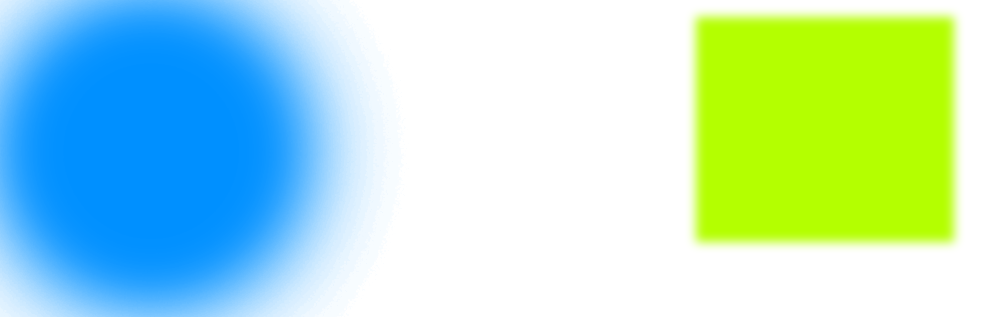
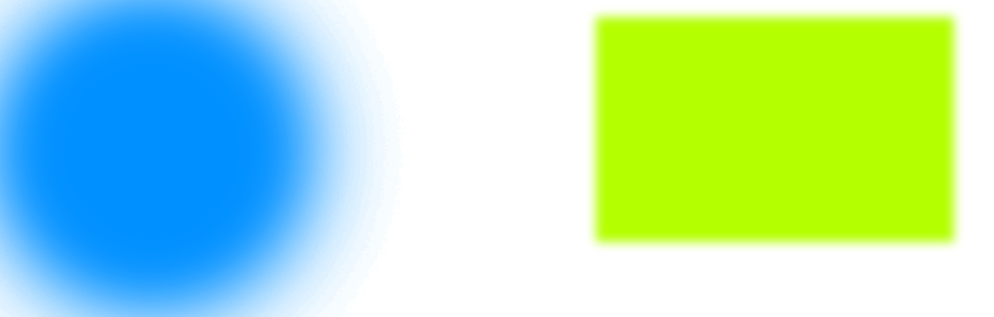
some changes.

Changed region(s): [[0.5926, 0.0284, 0.7173, 0.795]]

diff --git a/cookieclicker/src/ch/jmnetwork/cookieclicker/ui/CCUserInterface.java b/cookieclicker/src/ch/jmnetwork/cookieclicker/ui/CCUserInterface.java
@@ -27,6 +27,7 @@ import ch.jmnetwork.cookieclicker.CookieManager;
 import ch.jmnetwork.cookieclicker.helper.Helper;
 import ch.jmnetwork.cookieclicker.helper.HelperClicker;
 import ch.jmnetwork.cookieclicker.lib.Reference;
+import ch.jmnetwork.cookieclicker.util.NumberHelper;
 import ch.jmnetwork.cookieclicker.util.SaveLoadHandler;
 
 public class CCUserInterface
@@ -36,6 +37,7 @@ public class CCUserInterface
     // ======================================//
     
     private boolean run = false;
+    private NumberHelper nh = new NumberHelper();
     
     private static CookieManager cookiemanager;
     private static SaveLoadHandler slHandler;
@@ -137,7 +139,7 @@ public class CCUserInterface
         jframe.setLocationRelativeTo(null);
         jframe.setResizable(false);
         jframe.setIconImage(cookie);
-        if (new File("MainBackground.png").exists())
+        if (new File("BackgroundNew.png").exists())
         {
             try
             {
@@ -225,7 +227,7 @@ public class CCUserInterface
         
         pointerBuyButton.setText("POINTERS_HERE");
         pointerBuyButton.setFont(Font.getFont(FONT));
-        pointerBuyButton.setBounds(700, 20, 250, 20);
+        pointerBuyButton.setBounds(600, 20, 350, 20);
         pointerBuyButton.setEnabled(false);
         pointerBuyButton.setToolTipText(Helper.helpers[0].productivity + " Cookies / s");
         pointerBuyButton.addActionListener(new ActionListener()
@@ -242,7 +244,7 @@ public class CCUserInterface
         
         grandmaBuyButton.setText("GRANDMAS_HERE");
         grandmaBuyButton.setFont(Font.getFont(FONT));
-        grandmaBuyButton.setBounds(700, 42, 250, 20);
+        grandmaBuyButton.setBounds(600, 42, 350, 20);
         grandmaBuyButton.setEnabled(false);
         grandmaBuyButton.setToolTipText(Helper.helpers[1].productivity + " Cookies / s");
         grandmaBuyButton.addActionListener(new ActionListener()
@@ -259,7 +261,7 @@ public class CCUserInterface
         
         farmBuyButton.setText("FARMS_HERE");
         farmBuyButton.setFont(Font.getFont(FONT));
-        farmBuyButton.setBounds(700, 64, 250, 20);
+        farmBuyButton.setBounds(600, 64, 350, 20);
         farmBuyButton.setEnabled(false);
         farmBuyButton.setToolTipText(Helper.helpers[2].productivity + " Cookies / s");
         farmBuyButton.addActionListener(new ActionListener()
@@ -276,7 +278,7 @@ public class CCUserInterface
         
         factoryBuyButton.setText("FACTORYS_HERE");
         factoryBuyButton.setFont(Font.getFont(FONT));
-        factoryBuyButton.setBounds(700, 86, 250, 20);
+        factoryBuyButton.setBounds(600, 86, 350, 20);
         factoryBuyButton.setEnabled(false);
         factoryBuyButton.setToolTipText(Helper.helpers[3].productivity + " Cookies / s");
         factoryBuyButton.addActionListener(new ActionListener()
@@ -293,7 +295,7 @@ public class CCUserInterface
         
         mineBuyButton.setText("MINES_HERE");
         mineBuyButton.setFont(Font.getFont(FONT));
-        mineBuyButton.setBounds(700, 108, 250, 20);
+        mineBuyButton.setBounds(600, 108, 350, 20);
         mineBuyButton.setEnabled(false);
         mineBuyButton.setToolTipText(Helper.helpers[4].productivity + " Cookies / s");
         mineBuyButton.addActionListener(new ActionListener()
@@ -310,7 +312,7 @@ public class CCUserInterface
         
         shipmentBuyButton.setText("SHIPMENTS_HERE");
         shipmentBuyButton.setFont(Font.getFont(FONT));
-        shipmentBuyButton.setBounds(700, 130, 250, 20);
+        shipmentBuyButton.setBounds(600, 130, 350, 20);
         shipmentBuyButton.setEnabled(false);
         shipmentBuyButton.setToolTipText(Helper.helpers[5].productivity + " Cookies / s");
         shipmentBuyButton.addActionListener(new ActionListener()
@@ -327,7 +329,7 @@ public class CCUserInterface
         
         alchemyLabBuyButton.setText("ALCHEMYLABS_HERE");
         alchemyLabBuyButton.setFont(Font.getFont(FONT));
-        alchemyLabBuyButton.setBounds(700, 152, 250, 20);
+        alchemyLabBuyButton.setBounds(600, 152, 350, 20);
         alchemyLabBuyButton.setEnabled(false);
         alchemyLabBuyButton.setToolTipText(Helper.helpers[6].productivity + " Cookies / s");
         alchemyLabBuyButton.addActionListener(new ActionListener()
@@ -344,7 +346,7 @@ public class CCUserInterface
         
         portalBuyButton.setText("PORTALS_HERE");
         portalBuyButton.setFont(Font.getFont(FONT));
-        portalBuyButton.setBounds(700, 174, 250, 20);
+        portalBuyButton.setBounds(600, 174, 350, 20);
         portalBuyButton.setEnabled(false);
         portalBuyButton.setToolTipText(Helper.helpers[7].productivity + " Cookies / s");
         portalBuyButton.addActionListener(new ActionListener()
@@ -361,7 +363,7 @@ public class CCUserInterface
         
         timeMachineBuyButton.setText("TIMEMACHINES_HERE");
         timeMachineBuyButton.setFont(Font.getFont(FONT));
-        timeMachineBuyButton.setBounds(700, 196, 250, 20);
+        timeMachineBuyButton.setBounds(600, 196, 350, 20);
         timeMachineBuyButton.setEnabled(false);
         timeMachineBuyButton.setToolTipText(Helper.helpers[8].productivity + " Cookies / s");
         timeMachineBuyButton.addActionListener(new ActionListener()
@@ -378,9 +380,9 @@ public class CCUserInterface
         
         condenserBuyButton.setText("CONDENSER");
         condenserBuyButton.setFont(Font.getFont(FONT));
-        condenserBuyButton.setBounds(700, 218, 250, 20);
+        condenserBuyButton.setBounds(600, 218, 350, 20);
         condenserBuyButton.setEnabled(false);
-        condenserBuyButton.setToolTipText(Helper.helpers[8].productivity + " Cookies / s");
+        condenserBuyButton.setToolTipText(Helper.helpers[9].productivity + " Cookies / s");
         condenserBuyButton.addActionListener(new ActionListener()
         {
             @Override
@@ -434,116 +436,54 @@ public class CCUserInterface
             // SET BUTTON / LABEL TEXTS
             // ======================================//
             
-            currentCookiesLabel.setText("Current Cookies: " + cookiemanager.getCurrentCookies());
+            currentCookiesLabel.setText("Current Cookies: " + nh.addApostropheToNumber(cookiemanager.getCurrentCookies()));
             cookieRateLabel.setText("Current Cookie Rate: " + onlyOneAfterComma(Helper.getCookieRate()));
-            cookiesHandmade.setText("Handmade cookies: " + cookiemanager.getHandmadeCookies());
+            cookiesHandmade.setText("Handmade Cookies: " + nh.addApostropheToNumber(cookiemanager.getHandmadeCookies()));
             cookiesHandmadePerSec.setText("Handmade Cookies / s: " + CookieClickerMain.handmadePerSec);
-            pointerBuyButton.setText(Helper.owned[0] + " Pointers | Buy for " + Helper.getPriceForHelper(0));
-            grandmaBuyButton.setText(Helper.owned[1] + " Grandmas | Buy for " + Helper.getPriceForHelper(1));
-            farmBuyButton.setText(Helper.owned[2] + " Farms | Buy for " + Helper.getPriceForHelper(2));
-            factoryBuyButton.setText(Helper.owned[3] + " Factorys | Buy for " + Helper.getPriceForHelper(3));
-            mineBuyButton.setText(Helper.owned[4] + " Mines | Buy for " + Helper.getPriceForHelper(4));
-            shipmentBuyButton.setText(Helper.owned[5] + " Shipments | Buy for " + Helper.getPriceForHelper(5));
-            alchemyLabBuyButton.setText(Helper.owned[6] + " Alchemy Labs | Buy for " + Helper.getPriceForHelper(6));
-            portalBuyButton.setText(Helper.owned[7] + " Portals | Buy for " + Helper.getPriceForHelper(7));
-            timeMachineBuyButton.setText(Helper.owned[8] + " Time Machines | Buy for " + Helper.getPriceForHelper(8));
-            condenserBuyButton.setText(Helper.owned[9] + " Condensers | Buy for " + Helper.getPriceForHelper(9));
-            totalCookies.setText("All-Time cookies: " + cookiemanager.getTotalCookies());
+            pointerBuyButton.setText(Helper.owned[0] + " Pointers | Buy for " + nh.addApostropheToNumber(Helper.getPriceForHelper(0)));
+            grandmaBuyButton.setText(Helper.owned[1] + " Grandmas | Buy for " + nh.addApostropheToNumber(Helper.getPriceForHelper(1)));
+            farmBuyButton.setText(Helper.owned[2] + " Farms | Buy for " + nh.addApostropheToNumber(Helper.getPriceForHelper(2)));
+            factoryBuyButton.setText(Helper.owned[3] + " Factorys | Buy for " + nh.addApostropheToNumber(Helper.getPriceForHelper(3)));
+            mineBuyButton.setText(Helper.owned[4] + " Mines | Buy for " + nh.addApostropheToNumber(Helper.getPriceForHelper(4)));
+            shipmentBuyButton.setText(Helper.owned[5] + " Shipments | Buy for " + nh.addApostropheToNumber(Helper.getPriceForHelper(5)));
+            alchemyLabBuyButton.setText(Helper.owned[6] + " Alchemy Labs | Buy for " + nh.addApostropheToNumber(Helper.getPriceForHelper(6)));
+            portalBuyButton.setText(Helper.owned[7] + " Portals | Buy for " + nh.addApostropheToNumber(Helper.getPriceForHelper(7)));
+            timeMachineBuyButton.setText(Helper.owned[8] + " Time Machines | Buy for " + nh.addApostropheToNumber(Helper.getPriceForHelper(8)));
+            condenserBuyButton.setText(Helper.owned[9] + " Condensers | Buy for " + nh.addApostropheToNumber(Helper.getPriceForHelper(9)));
+            totalCookies.setText("All-Time Cookies: " + nh.addApostropheToNumber(cookiemanager.getTotalCookies()));
             
             // ======================================//
             // ENABLE / DISABLE BUTTONS
             // ======================================//
             
             /* POINTERS */
-            if (cookiemanager.getCurrentCookies() >= Helper.getPriceForHelper(0))
-            {
-                pointerBuyButton.setEnabled(true);
-            }
-            else
-            {
-                pointerBuyButton.setEnabled(false);
-            }
+            pointerBuyButton.setEnabled(cookiemanager.getCurrentCookies() >= Helper.getPriceForHelper(0));
             
             /* GRANDMAS */
-            if (cookiemanager.getCurrentCookies() >= Helper.getPriceForHelper(1))
-            {
-                grandmaBuyButton.setEnabled(true);
-            }
-            else
-            {
-                grandmaBuyButton.setEnabled(false);
-            }
+            grandmaBuyButton.setEnabled(cookiemanager.getCurrentCookies() >= Helper.getPriceForHelper(1));
             
             /* FARMS */
-            if (cookiemanager.getCurrentCookies() >= Helper.getPriceForHelper(2))
-            {
-                farmBuyButton.setEnabled(true);
-            }
-            else
-            {
-                farmBuyButton.setEnabled(false);
-            }
+            farmBuyButton.setEnabled(cookiemanager.getCurrentCookies() >= Helper.getPriceForHelper(2));
             
             /* FACTORYS */
-            if (cookiemanager.getCurrentCookies() >= Helper.getPriceForHelper(3))
-            {
-                factoryBuyButton.setEnabled(true);
-            }
-            else
-            {
-                factoryBuyButton.setEnabled(false);
-            }
+            factoryBuyButton.setEnabled(cookiemanager.getCurrentCookies() >= Helper.getPriceForHelper(3));
             
             /* MINES */
-            if (cookiemanager.getCurrentCookies() >= Helper.getPriceForHelper(4))
-            {
-                mineBuyButton.setEnabled(true);
-            }
-            else
-            {
-                mineBuyButton.setEnabled(false);
-            }
+            mineBuyButton.setEnabled(cookiemanager.getCurrentCookies() >= Helper.getPriceForHelper(4));
             
             /* SHIPMENTS */
-            if (cookiemanager.getCurrentCookies() >= Helper.getPriceForHelper(5))
-            {
-                shipmentBuyButton.setEnabled(true);
-            }
-            else
-            {
-                shipmentBuyButton.setEnabled(false);
-            }
+            shipmentBuyButton.setEnabled(cookiemanager.getCurrentCookies() >= Helper.getPriceForHelper(5));
             
             /* ALCHEMYLAB */
-            if (cookiemanager.getCurrentCookies() >= Helper.getPriceForHelper(6))
-            {
-                alchemyLabBuyButton.setEnabled(true);
-            }
-            else
-            {
-                alchemyLabBuyButton.setEnabled(false);
-            }
+            alchemyLabBuyButton.setEnabled(cookiemanager.getCurrentCookies() >= Helper.getPriceForHelper(6));
             
             /* PORTAL */
-            if (cookiemanager.getCurrentCookies() >= Helper.getPriceForHelper(7))
-            {
-                portalBuyButton.setEnabled(true);
-            }
-            else
-            {
-                portalBuyButton.setEnabled(false);
-            }
+            portalBuyButton.setEnabled(cookiemanager.getCurrentCookies() >= Helper.getPriceForHelper(7));
             
             /* TIMEMACHINE */
-            if (cookiemanager.getCurrentCookies() >= Helper.getPriceForHelper(8))
-            {
-                timeMachineBuyButton.setEnabled(true);
-            }
-            else
-            {
-                timeMachineBuyButton.setEnabled(false);
-            }
+            timeMachineBuyButton.setEnabled(cookiemanager.getCurrentCookies() >= Helper.getPriceForHelper(8));
             
+            /* CONDENSER */
             condenserBuyButton.setEnabled(cookiemanager.getCurrentCookies() >= Helper.getPriceForHelper(9));
         }
         

diff --git a/cookieclicker/src/ch/jmnetwork/cookieclicker/util/SaveLoadHandler.java b/cookieclicker/src/ch/jmnetwork/cookieclicker/util/SaveLoadHandler.java
@@ -36,7 +36,7 @@ public class SaveLoadHandler
         {
             CookieClickerMain.TICKS_PER_SECOND = Integer.parseInt(ph.getProperty("TICKS_S", "25"));
             JStringIterator fsi1 = new JStrings(ph.getProperty("COOKIES", "0_0_0"), "_").getIterator();
-            JStringIterator fsi2 = new JStrings(ph.getProperty("OBJECTS", "0_0_0_0_0_0_0_0_0"), "_").getIterator();
+            JStringIterator fsi2 = new JStrings(ph.getProperty("OBJECTS", "0_0_0_0_0_0_0_0_0_0"), "_").getIterator();
             
             cookiemanager.setTotalCookies(Long.parseLong(fsi1.getNextString()));
             cookiemanager.setCurrentCookies(Long.parseLong(fsi1.getNextString()));
@@ -58,6 +58,8 @@ public class SaveLoadHandler
             Helper.owned[6] = Integer.parseInt(fsi2.getNextString());
             Helper.owned[7] = Integer.parseInt(fsi2.getNextString());
             Helper.owned[8] = Integer.parseInt(fsi2.getNextString());
+            int next = Integer.parseInt(fsi2.getNextString());
+            Helper.owned[9] = next == Helper.owned[0] ? 0 : next;
             
             AchievementEventHandler.load(ph.getProperty("ACHIEVEMENTS", "0_0_0_0_0_0_0_0_0_0_0_0_0_0_0_0"));
             
@@ -72,7 +74,7 @@ public class SaveLoadHandler
     
     private String buildObjectsPropertyString()
     {
-        return Helper.owned[0] + "_" + Helper.owned[1] + "_" + Helper.owned[2] + "_" + Helper.owned[3] + "_" + Helper.owned[4] + "_" + Helper.owned[5] + "_" + Helper.owned[6] + "_" + Helper.owned[7] + "_" + Helper.owned[8];
+        return Helper.owned[0] + "_" + Helper.owned[1] + "_" + Helper.owned[2] + "_" + Helper.owned[3] + "_" + Helper.owned[4] + "_" + Helper.owned[5] + "_" + Helper.owned[6] + "_" + Helper.owned[7] + "_" + Helper.owned[8] + "_" + Helper.owned[9];
     }
     
     private String buildCookiePropertyString()

diff --git a/cookieclicker/src/ch/jmnetwork/cookieclicker/helper/Helper.java b/cookieclicker/src/ch/jmnetwork/cookieclicker/helper/Helper.java
@@ -8,7 +8,7 @@ public class Helper
 {
     public static Helper[] helpers = new Helper[10];
     public static int[] owned = new int[]
-    { 0, 0, 0, 0, 0, 0, 0, 0, 0 , 0};
+    { 0, 0, 0, 0, 0, 0, 0, 0, 0, 0 };
     
     public float productivity;
     public long price, pBase;
@@ -38,7 +38,7 @@ public class Helper
     {
         float returnValue = 0;
         
-        for (int i = 0; i < 9; i++)
+        for (int i = 0; i < helpers.length; i++)
             returnValue += (helpers[i].productivity * owned[i]);
         
         return returnValue;
